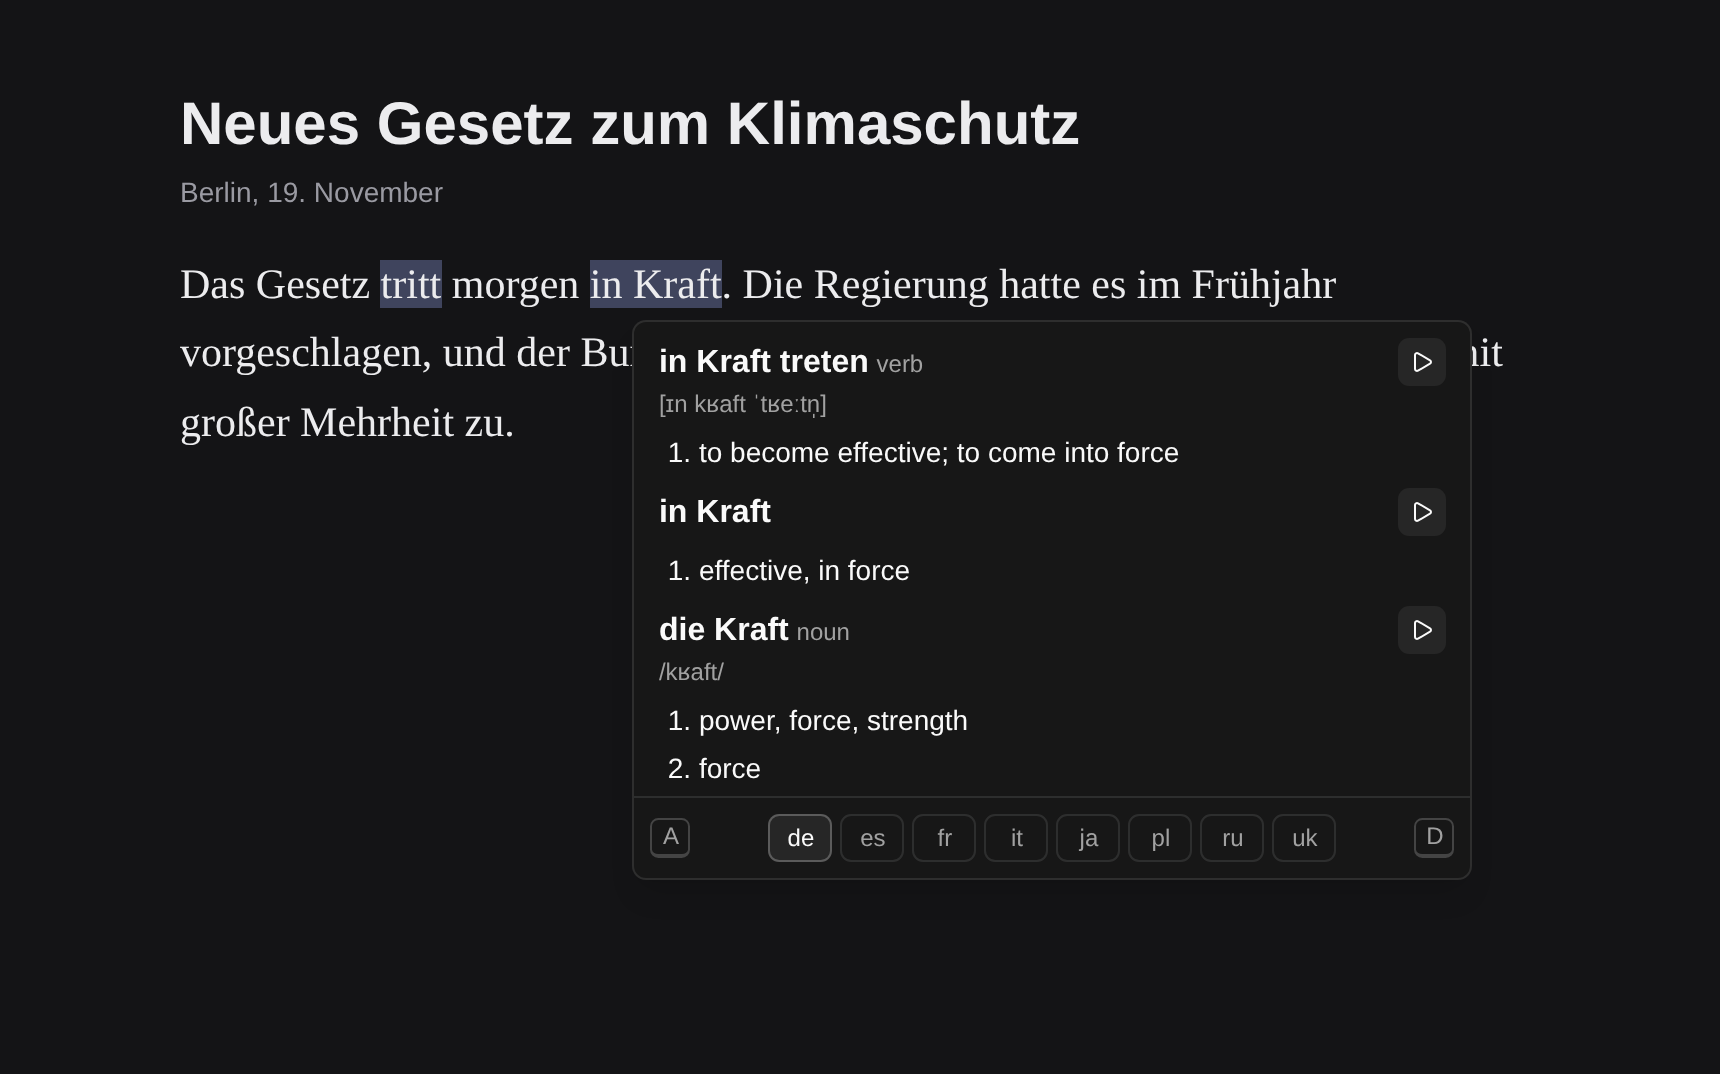
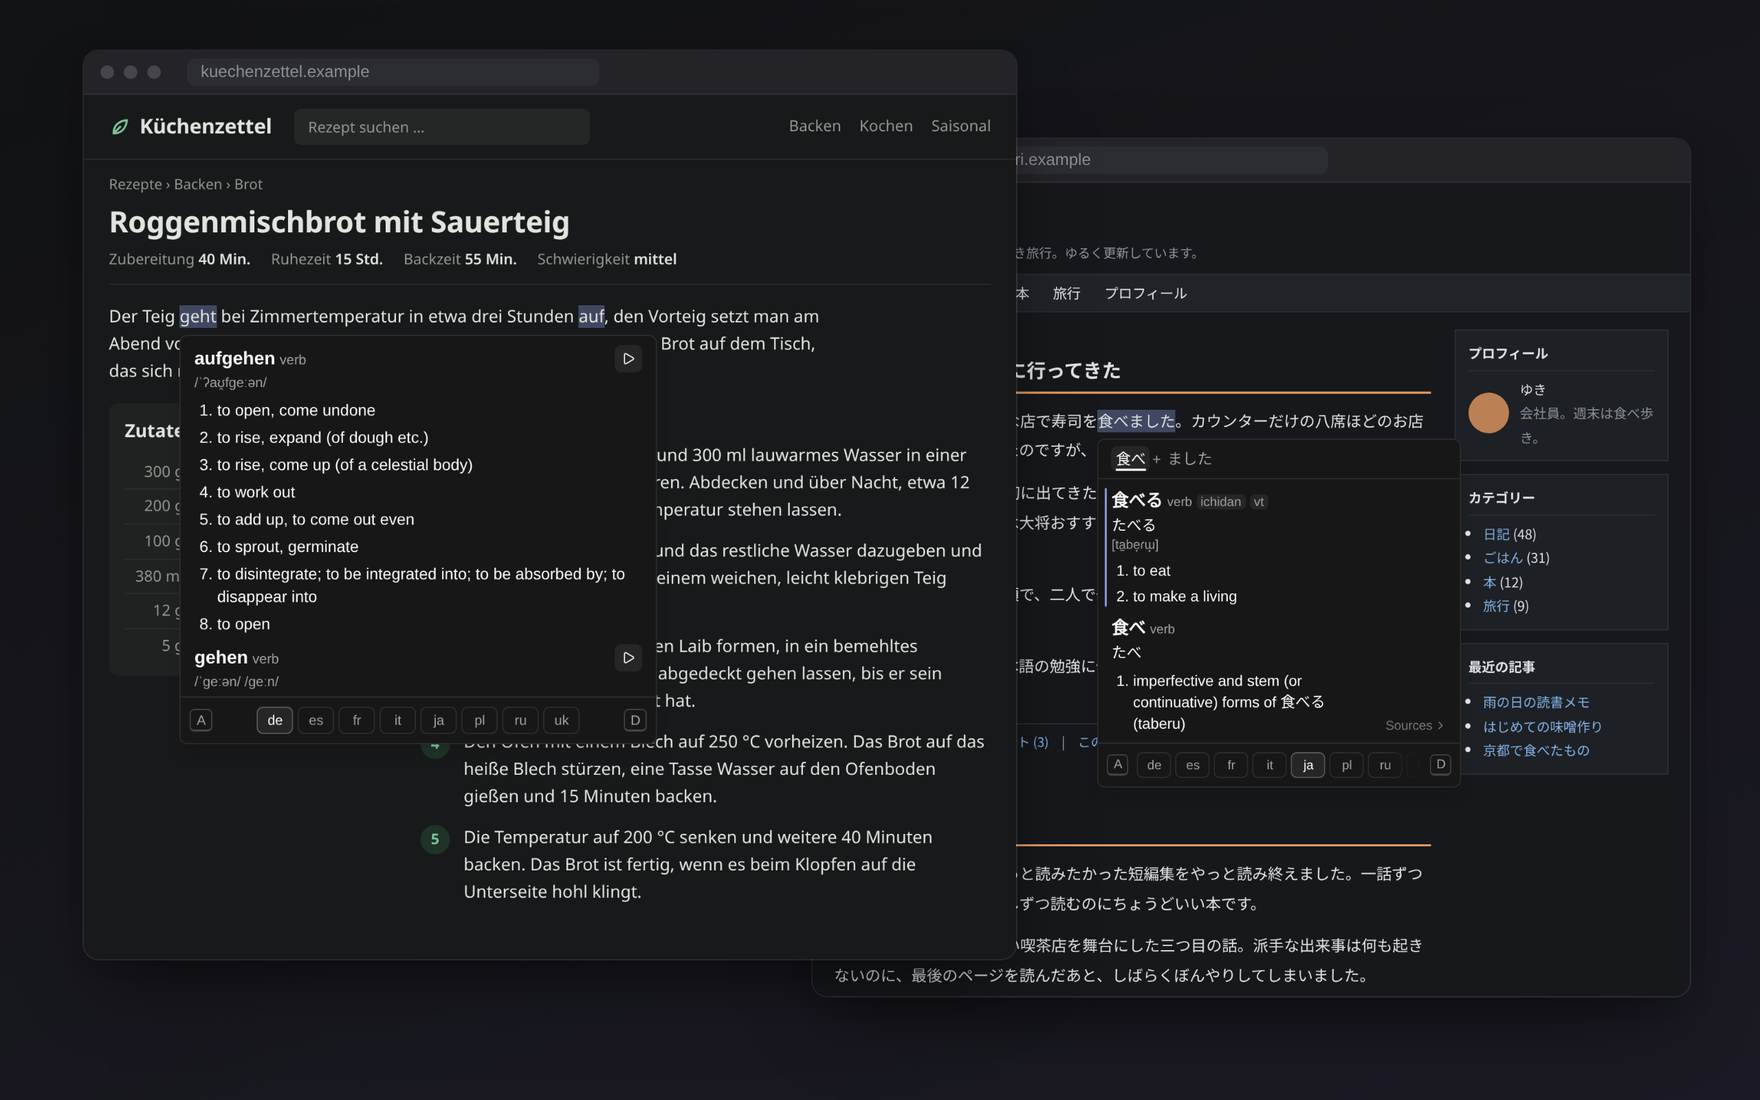
README: a hero picture of two lookups instead of the test page; no screenshot script
The picture shows the popover on two made-up sites, a German recipe page
(aufgehen, matched across the sentence) and a Japanese blog (食べる from
食), in light and dark. The screenshot script goes: the pictures are made
once, not part of the build.

Part of #48

diff --git a/README.md b/README.md
@@ -8,7 +8,7 @@
 
 <picture>
   <source media="(prefers-color-scheme: dark)" srcset="docs/screenshot-dark.png">
-  <img src="docs/screenshot-light.png" alt="DaDict's popover over a German news article: Kraft, clicked in 'Das Gesetz tritt morgen in Kraft', opens on the phrase 'in Kraft treten', to come into force, with 'tritt' and 'in Kraft' highlighted on the page">
+  <img src="docs/screenshot-light.png" alt="Two browser windows with DaDict's popover open. On a German recipe page, geht in 'Der Teig geht … in etwa drei Stunden auf' opens on aufgehen, to rise (of dough), with geht and auf highlighted. On a Japanese blog, the click on 食 in 食べました opens on 食べる, to eat.">
 </picture>
 
 A browser extension for looking up words on any page, using dictionary servers you choose.
@@ -73,7 +73,6 @@ bun run dev:firefox    # Firefox, with live reload
 | `bun run test`          | Unit tests, and layout tests in Chromium               |
 | `bun run format`        | Format with Prettier                                   |
 | `bun run mock-server`   | Test dictionary servers on `http://localhost:8787`     |
-| `bun scripts/screenshot.ts` | Retake the README's screenshots, after `bun run build` |
 
 Tests named `*.browser.test.ts` need real layout, so they run in headless Chromium. Install it once with `bunx playwright install chromium`.
 
